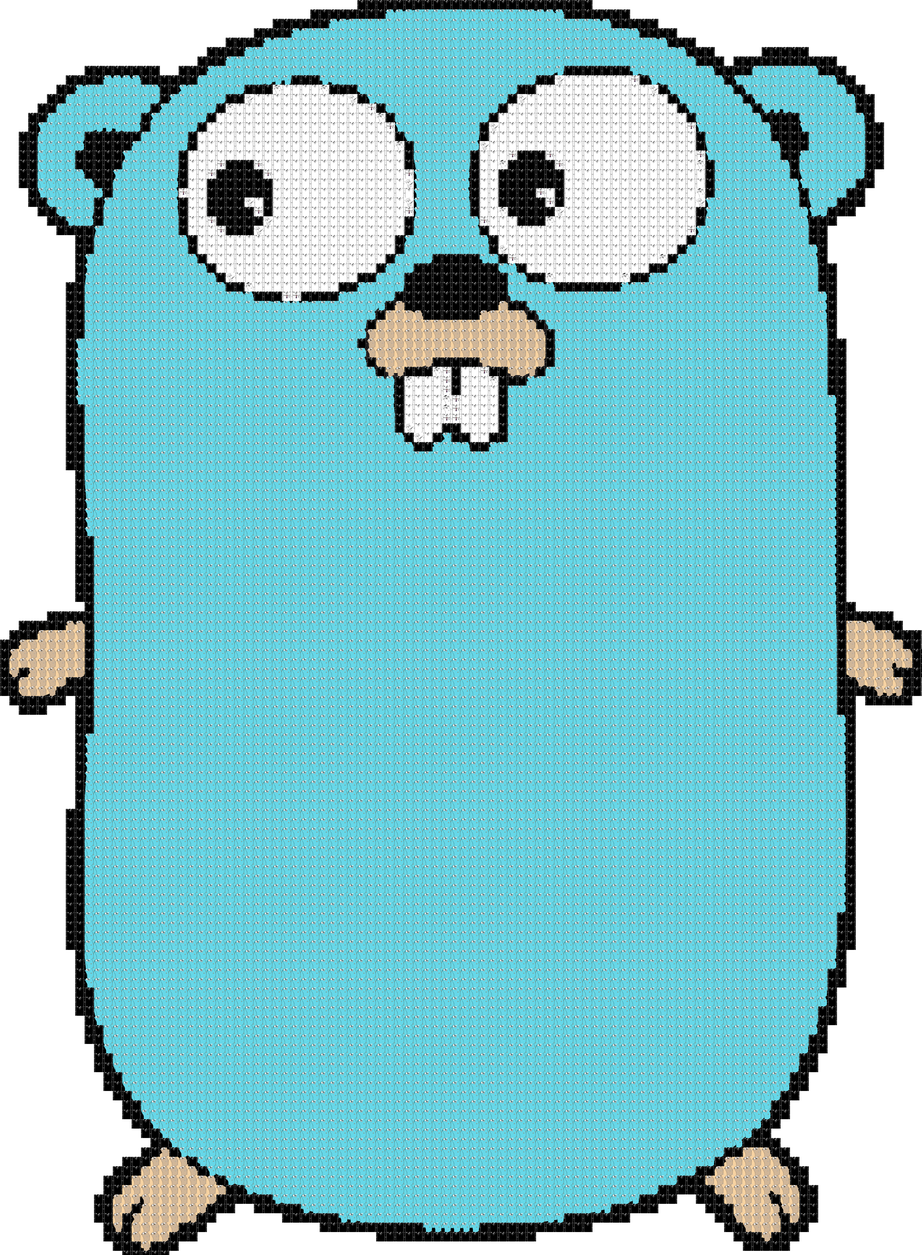
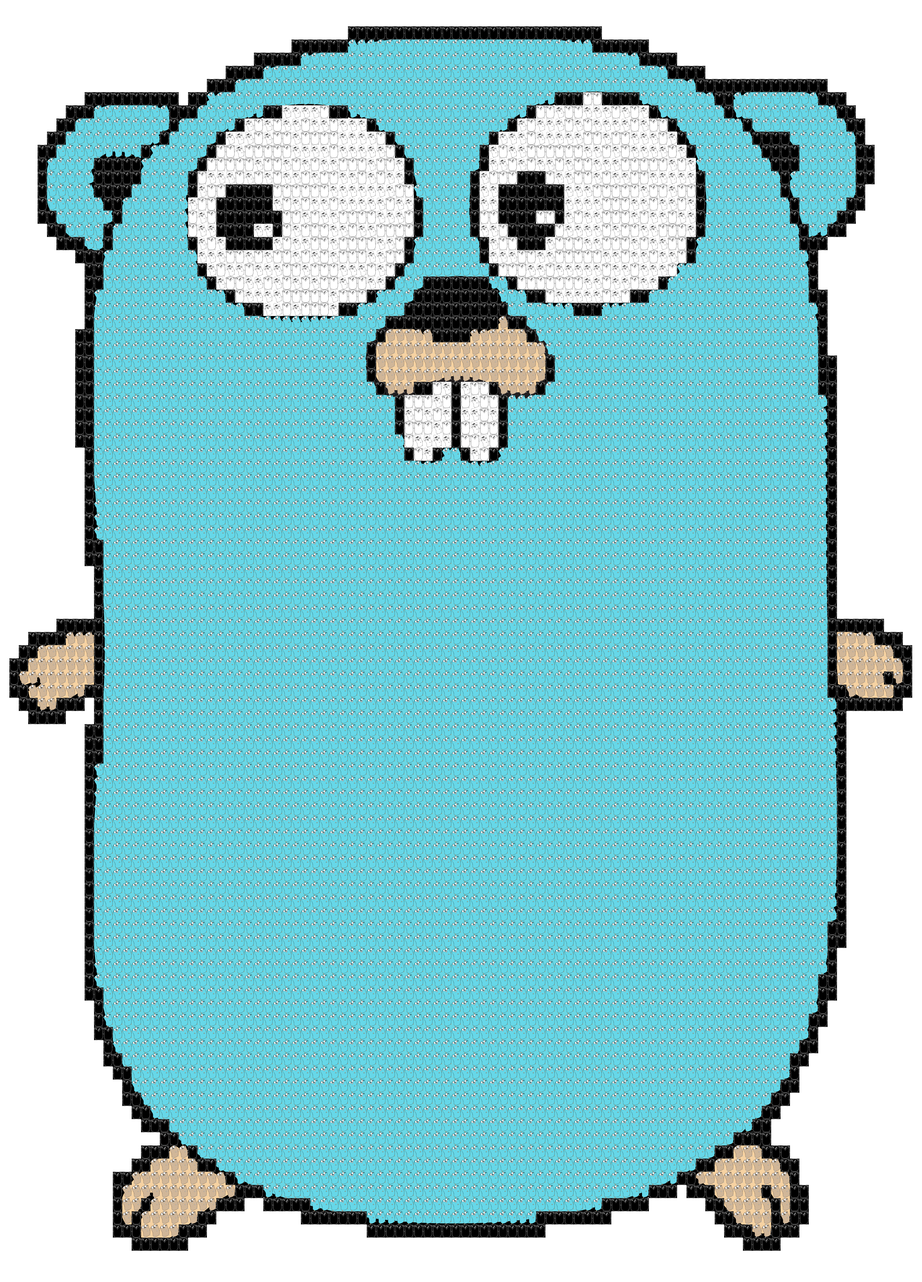
Support non-square tiles
This is so I don't cut the heads off the little gophers.

diff --git a/mosaic.go b/mosaic.go
@@ -15,11 +15,13 @@ import (
 
 // Config contains options for mosaic generation.
 type Config struct {
-	TileSize int
-	Workers  int
-	Blend    bool
+	Workers int
+	Blend   bool
 
 	Scale float64
+
+	TileWidth  int
+	TileHeight int
 
 	// ResizeTiles indicates whether the tile images should be resized before
 	// determining their primary color.
@@ -34,7 +36,7 @@ func Generate(ctx context.Context, src image.Image, tileImages *ImageList, confi
 		draw.Copy(output, src.Bounds().Min, src, src.Bounds(), draw.Src, nil)
 	}
 
-	tiles := tileize(ctx, src, config.TileSize)
+	tiles := tileize(ctx, src, config)
 
 	var wg sync.WaitGroup
 	wg.Add(config.Workers)
@@ -51,15 +53,15 @@ func Generate(ctx context.Context, src image.Image, tileImages *ImageList, confi
 }
 
 // tileize divides the source image into tiles.
-func tileize(ctx context.Context, src image.Image, tileSize int) <-chan image.Image {
+func tileize(ctx context.Context, src image.Image, config Config) <-chan image.Image {
 	ch := make(chan image.Image)
 	go func() {
 		defer close(ch)
 
 		bounds := src.Bounds()
-		for x := bounds.Min.X; x < bounds.Max.X; x += tileSize {
-			for y := bounds.Min.Y; y < bounds.Max.Y; y += tileSize {
-				r := image.Rect(x, y, x+tileSize, y+tileSize)
+		for x := bounds.Min.X; x < bounds.Max.X; x += config.TileWidth {
+			for y := bounds.Min.Y; y < bounds.Max.Y; y += config.TileHeight {
+				r := image.Rect(x, y, x+config.TileWidth, y+config.TileHeight)
 				if r.Max.X > bounds.Max.X {
 					r.Max.X = bounds.Max.X
 				}
@@ -111,7 +113,7 @@ func matchAndSwapTiles(output draw.Image, tiles <-chan image.Image, tileImages *
 			continue
 		}
 
-		replacement = imaging.Fill(replacement, config.TileSize, config.TileSize, imaging.Center, imaging.Lanczos)
+		replacement = imaging.Fill(replacement, config.TileWidth, config.TileHeight, imaging.Center, imaging.Lanczos)
 		if config.Blend {
 			draw.Draw(output, tile.Bounds(), replacement, image.ZP, draw.Over)
 		} else {

diff --git a/cmd/mosaic/main.go b/cmd/mosaic/main.go
@@ -23,13 +23,19 @@ var tileImagesPath string
 var sourceImagePath string
 var outputImagePath string
 
-var config mosaic.Config
+var config = mosaic.Config{
+	ResizeTiles: true,
+}
 
 func init() {
+	var tileSize int
+
 	flag.StringVar(&sourceImagePath, "image", "", "Path to source image")
 	flag.StringVar(&tileImagesPath, "tiles", "", "Path to directory of tile images")
 	flag.StringVar(&outputImagePath, "out", "", "Path to output image")
-	flag.IntVar(&config.TileSize, "size", 10, "Tile size")
+	flag.IntVar(&tileSize, "size", 10, "Tile size")
+	flag.IntVar(&config.TileWidth, "tile-width", 0, "Tile width")
+	flag.IntVar(&config.TileHeight, "tile-height", 0, "Tile height")
 	flag.IntVar(&config.Workers, "workers", runtime.NumCPU(), "Number of workers")
 	flag.BoolVar(&config.Blend, "blend", false, "For transparent images, blend the tile images onto the source image")
 	flag.Float64Var(&config.Scale, "scale", 1.0, "Scale the source image by this factor")
@@ -49,7 +55,13 @@ func init() {
 		outputImagePath = deriveOutputImagePath(sourceImagePath)
 	}
 
-	if config.TileSize < 1 {
+	if config.TileWidth == 0 {
+		config.TileWidth = tileSize
+	}
+	if config.TileHeight == 0 {
+		config.TileHeight = tileSize
+	}
+	if config.TileWidth <= 0 || config.TileHeight <= 0 {
 		fmt.Fprintln(os.Stderr, "Invalid tile size")
 		os.Exit(1)
 	}

diff --git a/list_builder.go b/list_builder.go
@@ -84,7 +84,7 @@ func findImageColor(ch <-chan string, config Config) <-chan imageColor {
 			}
 
 			if config.ResizeTiles {
-				img = imaging.Fill(img, config.TileSize, config.TileSize, imaging.Center, imaging.Lanczos)
+				img = imaging.Fill(img, config.TileWidth, config.TileHeight, imaging.Center, imaging.Lanczos)
 			}
 
 			out <- imageColor{

diff --git a/README.md b/README.md
@@ -9,16 +9,14 @@ This is still in an early stage of development, but it is currently functional. 
 This was generated with:
 
 ```
-./mosaic -image gopher.png -tiles gophers/ -scale 3.0 -size 50 -blend
+./mosaic -image gopher.png -tiles gophers/ -tile-width 50 -tile-height 70 -blend
 ```
-
 
 ## Usage
 
 - Ensure a recent version of Go is installed.
 - Clone this repo
 - Inside this project's directory run: `go build ./cmd/mosaic`
-
 
 ```
 ./mosaic -image source.jpg -out output.jpg -tiles path/to/tile/images
